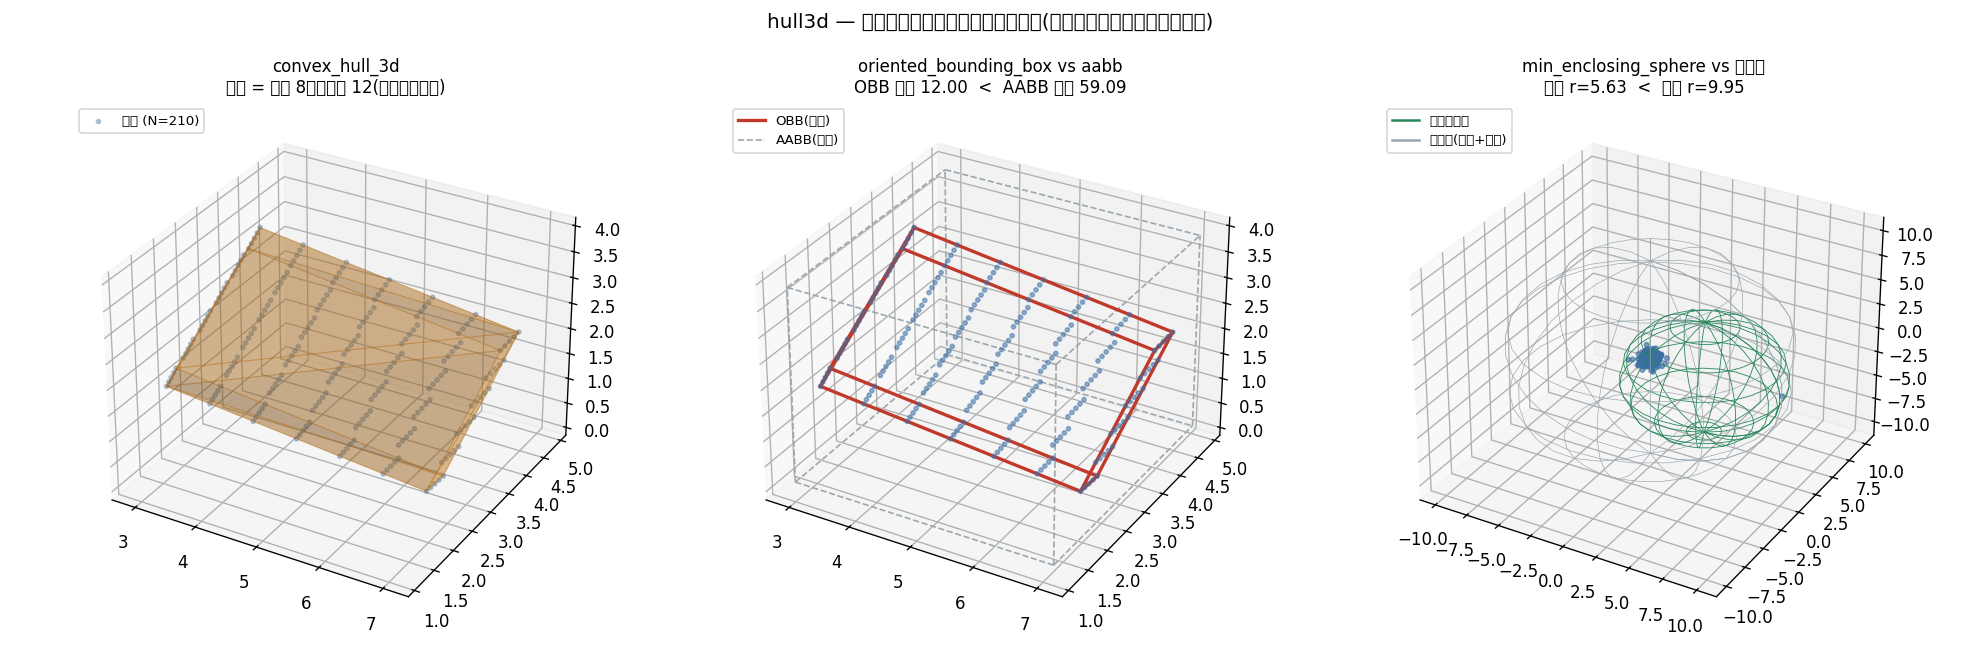
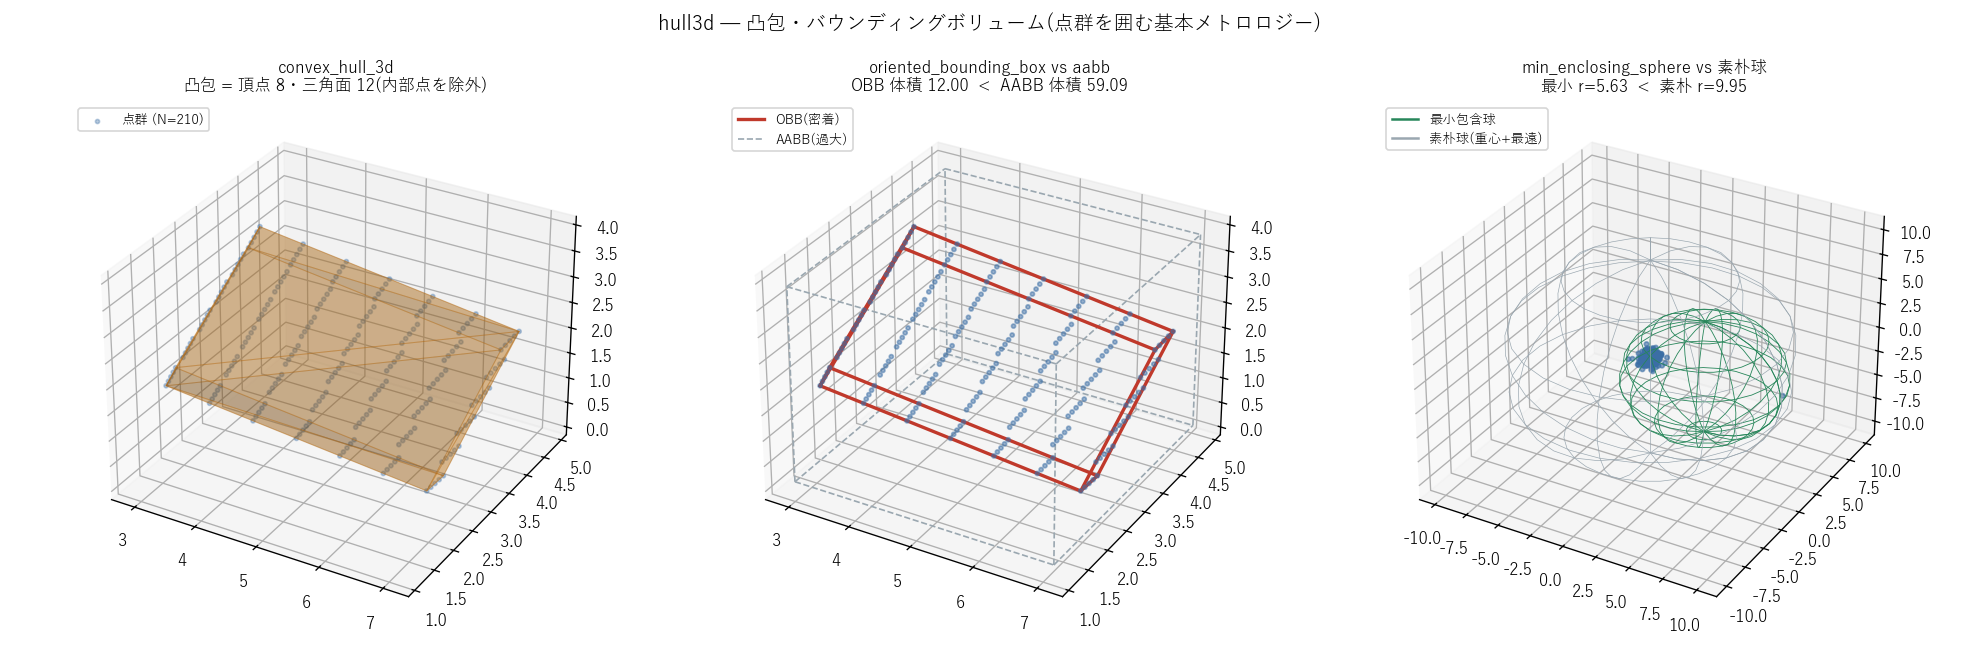
auto: mesh_props.py 編集前 (2026-08-28 12:54)

diff --git a/examples_3d/mesh_props.py b/examples_3d/mesh_props.py
@@ -174,8 +174,7 @@ def render_gallery(sphere, sph_vn, torus, tor_curv, bars, out_path: Path) -> boo
     Vs, Fs = sphere
     Vt, Ft = torus
     fig = plt.figure(figsize=(16.5, 5.4))
-    fig.suptitle("mesh_props: メッシュの法線・表面積・平均曲率(GT=球, 可視化=トーラス)",
-                 fontsize=13, fontweight="bold")
+    fig.suptitle(t_title, fontsize=13, fontweight="bold")
 
     # --- 左: 球 + 一貫した外向き頂点法線 ---
     ax1 = fig.add_subplot(1, 3, 1, projection="3d")
@@ -188,7 +187,7 @@ def render_gallery(sphere, sph_vn, torus, tor_curv, bars, out_path: Path) -> boo
     L = 0.42 * float(np.linalg.norm(Vs, axis=1).mean())
     ax1.quiver(P[:, 0], P[:, 1], P[:, 2], Nn[:, 0], Nn[:, 1], Nn[:, 2],
                length=L, color="crimson", linewidth=0.8, normalize=True)
-    ax1.set_title("球: 面の巻き順から\n一貫して外向きの頂点法線", fontsize=10)
+    ax1.set_title(t_sphere, fontsize=10)
     _equal_3d(ax1, Vs)
     ax1.set_axis_off()
 
@@ -199,26 +198,26 @@ def render_gallery(sphere, sph_vn, torus, tor_curv, bars, out_path: Path) -> boo
                               cmap="viridis", linewidth=0.0, antialiased=True)
     collec.set_array(face_scalar)
     cbar = fig.colorbar(collec, ax=ax2, shrink=0.62, pad=0.02)
-    cbar.set_label("平均曲率 |H|", fontsize=9)
-    ax2.set_title("トーラス: 頂点曲率\n(外周の尾根=高, 内側の喉=低)", fontsize=10)
+    cbar.set_label(t_cbar, fontsize=9)
+    ax2.set_title(t_torus, fontsize=10)
     _equal_3d(ax2, Vt)
     ax2.set_axis_off()
 
     # --- 右: 実手法 vs null の GT 誤差(対数軸、小さいほど良い) ---
     ax3 = fig.add_subplot(1, 3, 3)
-    labels, real_err, null_err = bars
-    xpos = np.arange(len(labels))
+    _, real_err, null_err = bars
+    xpos = np.arange(len(t_labels))
     w = 0.38
     floor = 1e-5                                      # log 表示用の下駄(0 を潰さない)
     r_disp = np.maximum(real_err, floor)
     n_disp = np.maximum(null_err, floor)
-    b1 = ax3.bar(xpos - w / 2, r_disp, w, label="実手法", color="#2c7fb8")
-    b2 = ax3.bar(xpos + w / 2, n_disp, w, label="null(素朴基準)", color="#d95f0e")
+    b1 = ax3.bar(xpos - w / 2, r_disp, w, label=t_real, color="#2c7fb8")
+    b2 = ax3.bar(xpos + w / 2, n_disp, w, label=t_null, color="#d95f0e")
     ax3.set_yscale("log")
-    ax3.set_ylabel("GT からの相対誤差(小さいほど良い)", fontsize=9)
+    ax3.set_ylabel(t_ylabel, fontsize=9)
     ax3.set_xticks(xpos)
-    ax3.set_xticklabels(labels, fontsize=9)
-    ax3.set_title("beat-the-null: 実手法は素朴基準を桁で凌駕", fontsize=10)
+    ax3.set_xticklabels(t_labels, fontsize=9)
+    ax3.set_title(t_bar_title, fontsize=10)
     ax3.legend(fontsize=9, loc="upper left")
     for bars_, vals in ((b1, real_err), (b2, null_err)):
         for rect, val in zip(bars_, vals):
